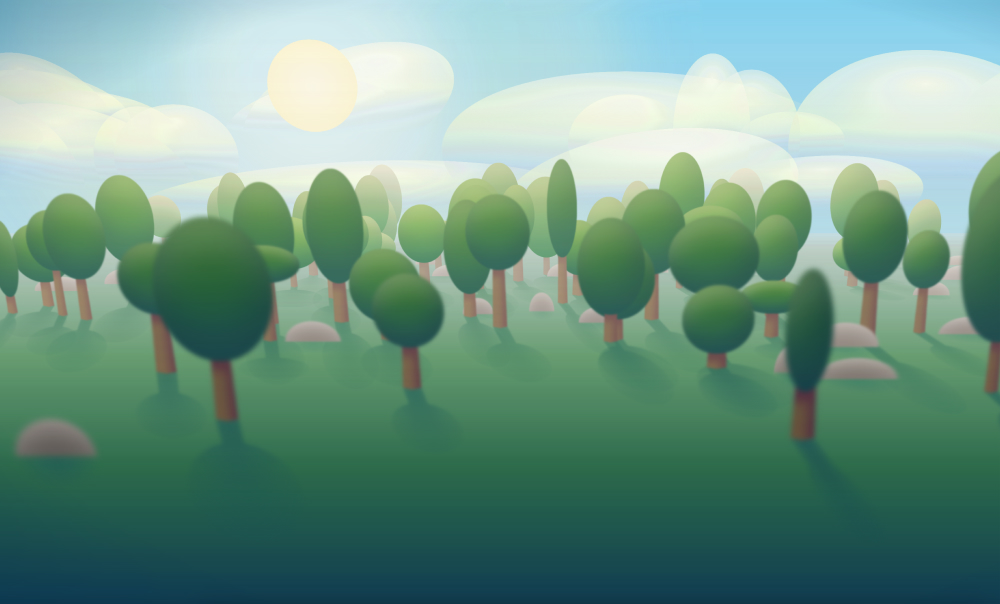
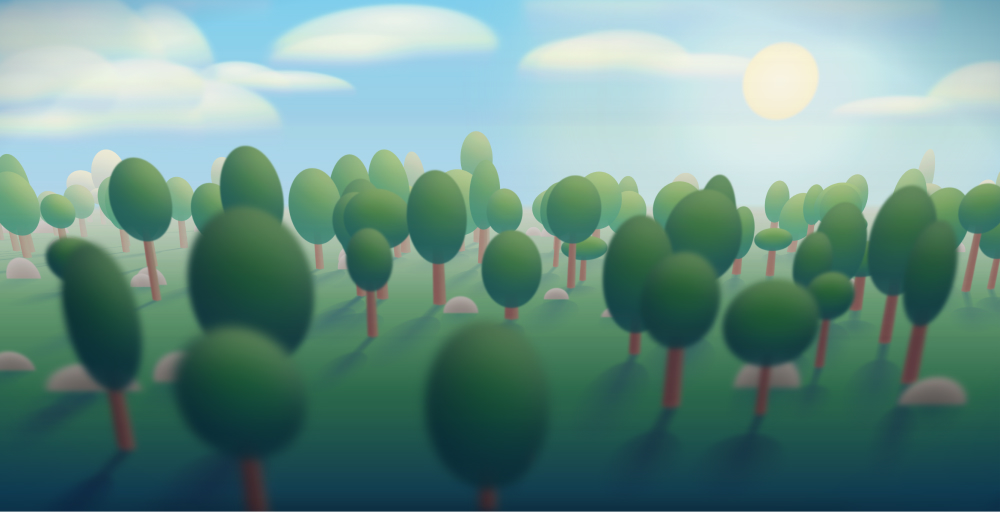
reduce max objects, update example

diff --git a/components/forest/index.tsx b/components/forest/index.tsx
@@ -30,7 +30,7 @@ export const Forest = () => {
 
   React.useEffect(() => {
     if (!windowSize) return
-    setNumberOfObject(Math.min(windowSize.width / 8, 1000))
+    setNumberOfObject(Math.min(windowSize.width / 8, 500))
   }, [windowSize])
 
   const objectOptions = [Tree, Tree, Tree, Rock]
